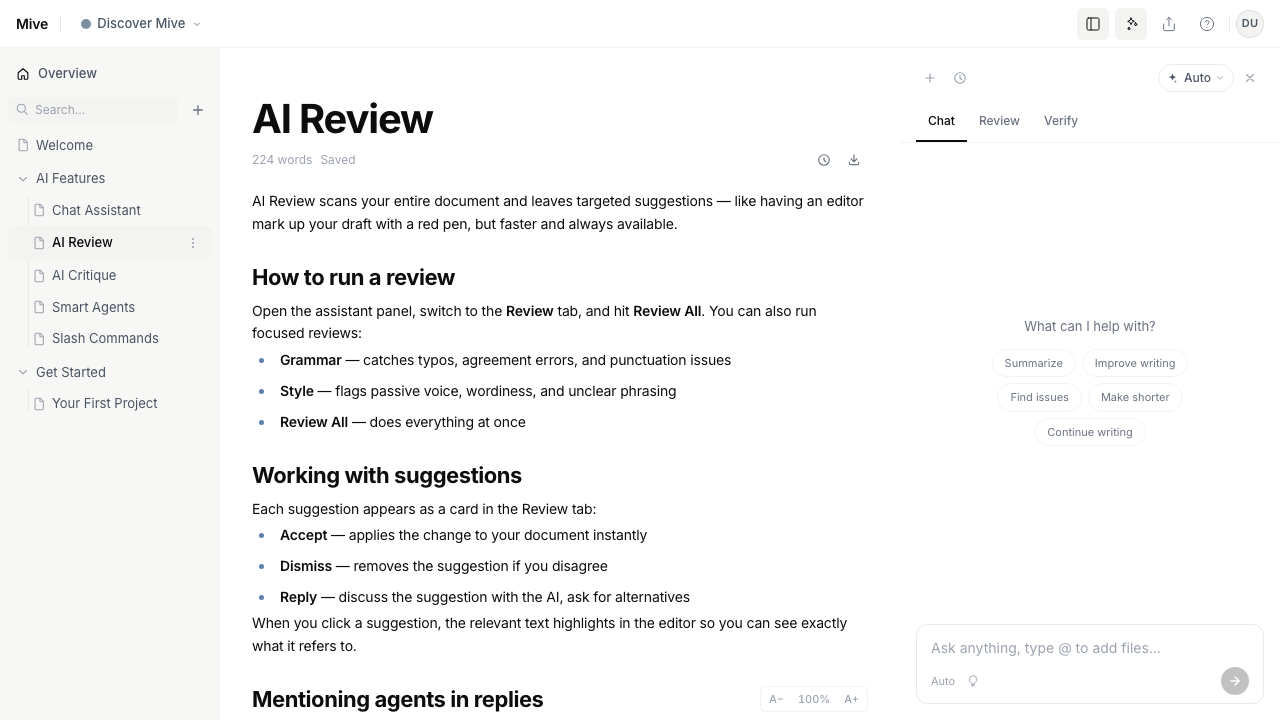
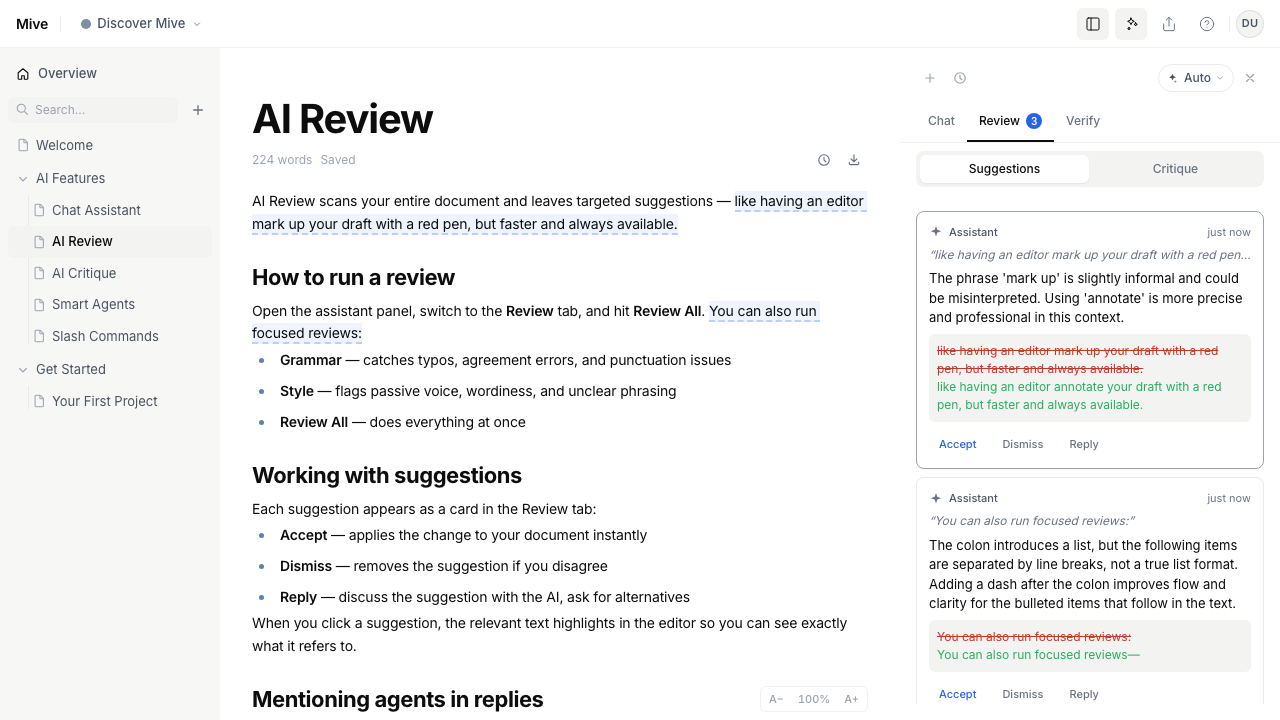
feat(landing): update screenshots and replace Project Home with Smart Agents showcase
Swap in updated screenshots for AI review and chat assistant, remove
unused ones, and rewrite the third showcase section to highlight
custom AI agent personas with @mention switching.

diff --git a/frontend/src/pages/LandingPage.jsx b/frontend/src/pages/LandingPage.jsx
@@ -282,28 +282,29 @@ export function LandingPage() {
         </div>
       </div>
 
-      {/* ── Showcase 3: Project overview ── */}
+      {/* ── Showcase 3: Smart Agents ── */}
       <div className="landing-showcase landing-animate" ref={addRef}>
         <div className="landing-showcase-content">
-          <div className="landing-showcase-eyebrow">Project Home</div>
+          <div className="landing-showcase-eyebrow">Smart Agents</div>
           <h2 className="landing-showcase-heading">
-            Not a blank page. A command center.
+            Your team of AI specialists.
           </h2>
           <p className="landing-showcase-desc">
-            Each project has its own dashboard with word counts, recent documents,
-            and settings. Add reference materials, configure custom writing rules,
-            and set up AI agents tailored to your project.
+            Create custom AI personas — a strict editor, a creative writing coach,
+            a fact-checking researcher. Each agent has its own voice, system prompt,
+            and model configuration. Switch between them with @mentions.
           </p>
           <p className="landing-showcase-detail">
-            Built for novels, screenplays, articles, academic papers — anything
-            worth writing well.
+            Agents respond from their unique perspective. Ask your editor to tighten
+            prose, then ask your coach to brainstorm alternatives — all in the same
+            conversation.
           </p>
         </div>
         <div className="landing-showcase-media">
           <div className="landing-screenshot-frame">
             <img
-              src="/screenshots/project-home.png"
-              alt="Project home with document stats and recent files"
+              src="/screenshots/smart-agents.png"
+              alt="Agent configuration panel with name, voice, and engine settings"
               loading="lazy"
             />
           </div>
